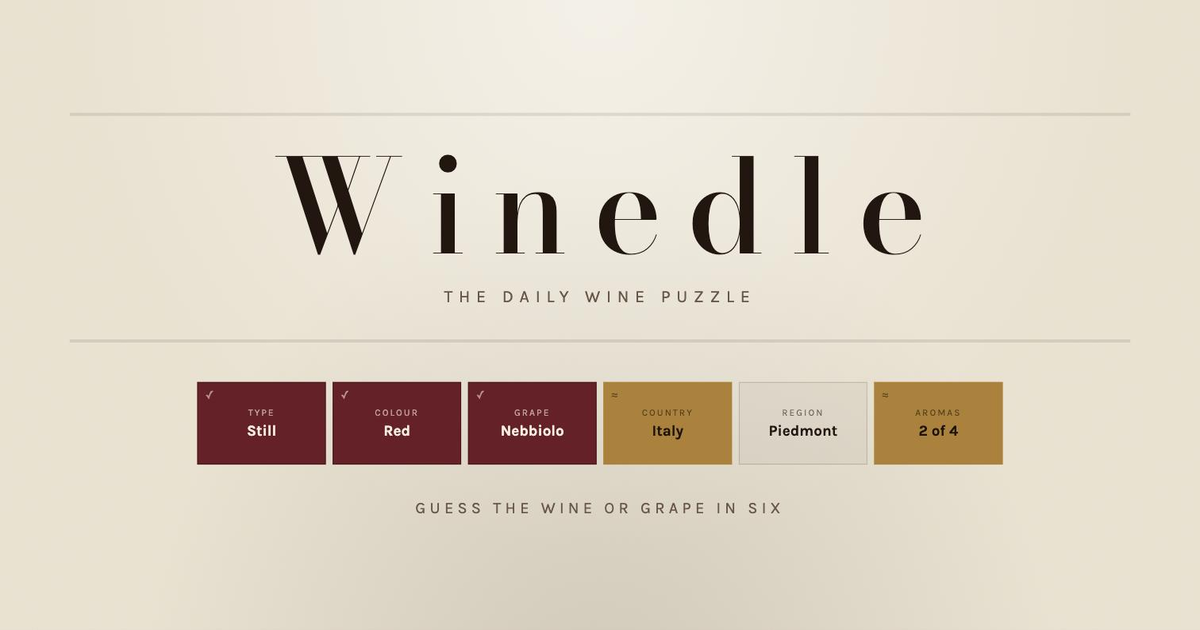
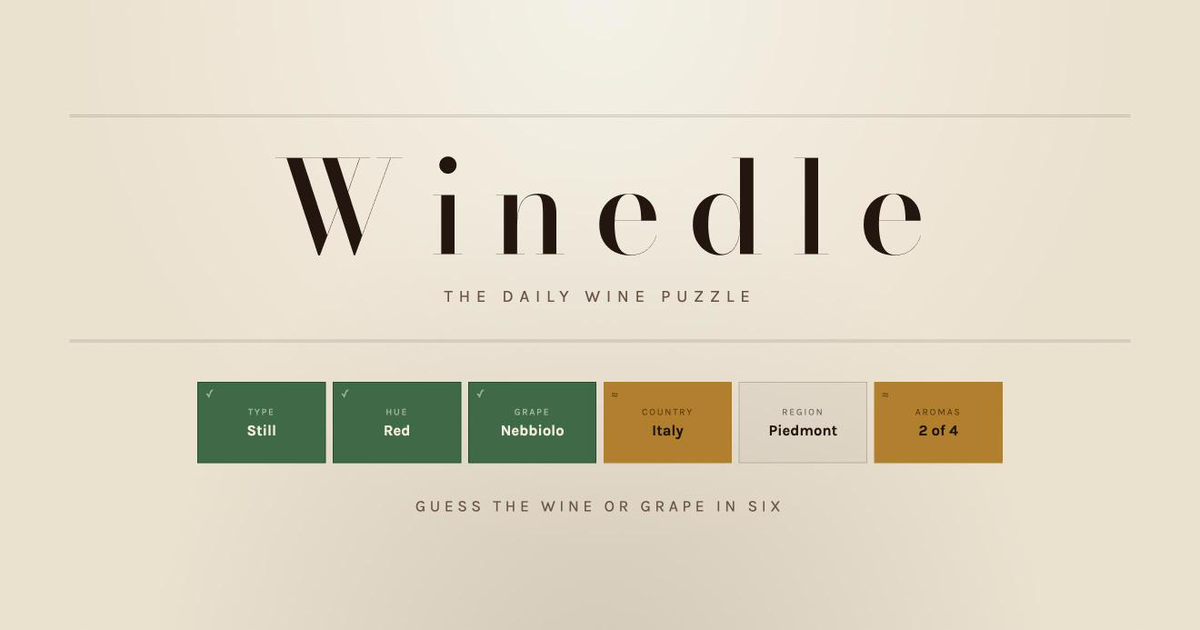
Green for correct instead of oxblood
Bottle green rather than a bright Wordle green, so it sits with the amber and
the parchment instead of shouting over them. Switched everywhere the state is
signalled: tiles, the How to Play key, the guess-distribution bar, the archive
tick, the shared blocks, and the social card.

Oxblood stays as the brand accent on buttons, focus and selection - it is no
longer a scoring signal, which also removes the ambiguity of the same colour
meaning both "correct" and "primary action".

Worth noting: green beside amber is the harder pair for deuteranopes - it is
the classic confusion and worse than the oxblood it replaces. The marks added
earlier are now doing the real work; the colour corroborates.

diff --git a/index.html b/index.html
@@ -33,6 +33,10 @@
   --ink-soft: #6b5544;
   --oxblood: #6d1a26;
   --oxblood-deep: #4a0f1a;
+  /* Correct. Bottle green rather than a bright Wordle green, so it sits with
+     the oxblood and amber instead of shouting over them. */
+  --green: #3d6b47;
+  --green-deep: #294a30;
   --amber: #b1802c;
   --gold: #a68b4c;
   --rule: rgba(36, 22, 15, 0.18);
@@ -48,6 +52,8 @@
     --ink-soft: #a08e78;
     --oxblood: #8c2432;
     --oxblood-deep: #5d1520;
+    --green: #4a7d55;
+    --green-deep: #2f5236;
     --amber: #c2913a;
     --gold: #8a7442;
     --rule: rgba(232, 220, 200, 0.16);
@@ -160,7 +166,7 @@ body {
 .key i {
   width: 14px; height: 14px; display: block; border: 1px solid var(--rule);
 }
-.key .k-hit  { background: var(--oxblood); border-color: var(--oxblood-deep); }
+.key .k-hit  { background: var(--green); border-color: var(--green-deep); }
 .key .k-near { background: var(--amber); border-color: var(--amber); }
 .key .k-miss { background: var(--tile-miss-bg); }
 
@@ -215,9 +221,9 @@ a.linkish { text-decoration: none; }
 .archive-list a:hover { text-decoration: underline; }
 .archive-list a.is-done { color: var(--ink-soft); }
 .archive-list__date { font-size: 0.74rem; opacity: .7; }
-.archive-list__mark { font-size: 0.72rem; color: var(--oxblood); text-align: right; }
+.archive-list__mark { font-size: 0.72rem; color: var(--green); text-align: right; }
 
-@media (prefers-color-scheme: dark) { .archive-list__mark { color: var(--amber); } }
+@media (prefers-color-scheme: dark) { .archive-list__mark { color: var(--green); } }
 
 /* ---------- cellar book ---------- */
 
@@ -275,8 +281,8 @@ a.linkish { text-decoration: none; }
 }
 
 .bar.is-latest .bar__fill {
-  background: var(--oxblood);
-  border-color: var(--oxblood-deep);
+  background: var(--green);
+  border-color: var(--green-deep);
   color: #f6ece0;
 }
 
@@ -464,8 +470,10 @@ a.linkish { text-decoration: none; }
   font-weight: 700;
 }
 
-/* Colour is not the only signal - deuteranopes read oxblood and amber as two
- * similar mid-tones, so each scored state carries a mark as well. */
+/* Colour is not the only signal, and green beside amber is the harder pair for
+ * deuteranopes - it is the classic confusion, worse than the oxblood this
+ * replaced. The mark on each tile is what actually carries the state; the
+ * colour is corroboration. */
 .tile__mark {
   position: absolute;
   left: 5px;
@@ -492,7 +500,7 @@ a.linkish { text-decoration: none; }
   opacity: .8;
 }
 
-.tile--hit  { background: var(--oxblood); border-color: var(--oxblood-deep); color: #f6ece0; }
+.tile--hit  { background: var(--green); border-color: var(--green-deep); color: #f6ece0; }
 .tile--near { background: var(--amber); border-color: var(--amber); color: #1d1206; }
 
 /* letterpress reveal: each tile turns like a card being laid down */
@@ -3341,7 +3349,7 @@ const COLUMNS = [
   { key: 'flavors', label: 'Aromas',  type: 'set'   }
 ];
 
-const EMOJI = { hit: '\u{1F7E5}', near: '\u{1F7E8}', miss: '⬜' };
+const EMOJI = { hit: '\u{1F7E9}', near: '\u{1F7E8}', miss: '\u2B1C' };
 
 /* ---------- comparison engine ---------- */
 

diff --git a/src/style.css b/src/style.css
@@ -7,6 +7,10 @@
   --ink-soft: #6b5544;
   --oxblood: #6d1a26;
   --oxblood-deep: #4a0f1a;
+  /* Correct. Bottle green rather than a bright Wordle green, so it sits with
+     the oxblood and amber instead of shouting over them. */
+  --green: #3d6b47;
+  --green-deep: #294a30;
   --amber: #b1802c;
   --gold: #a68b4c;
   --rule: rgba(36, 22, 15, 0.18);
@@ -22,6 +26,8 @@
     --ink-soft: #a08e78;
     --oxblood: #8c2432;
     --oxblood-deep: #5d1520;
+    --green: #4a7d55;
+    --green-deep: #2f5236;
     --amber: #c2913a;
     --gold: #8a7442;
     --rule: rgba(232, 220, 200, 0.16);
@@ -134,7 +140,7 @@ body {
 .key i {
   width: 14px; height: 14px; display: block; border: 1px solid var(--rule);
 }
-.key .k-hit  { background: var(--oxblood); border-color: var(--oxblood-deep); }
+.key .k-hit  { background: var(--green); border-color: var(--green-deep); }
 .key .k-near { background: var(--amber); border-color: var(--amber); }
 .key .k-miss { background: var(--tile-miss-bg); }
 
@@ -189,9 +195,9 @@ a.linkish { text-decoration: none; }
 .archive-list a:hover { text-decoration: underline; }
 .archive-list a.is-done { color: var(--ink-soft); }
 .archive-list__date { font-size: 0.74rem; opacity: .7; }
-.archive-list__mark { font-size: 0.72rem; color: var(--oxblood); text-align: right; }
+.archive-list__mark { font-size: 0.72rem; color: var(--green); text-align: right; }
 
-@media (prefers-color-scheme: dark) { .archive-list__mark { color: var(--amber); } }
+@media (prefers-color-scheme: dark) { .archive-list__mark { color: var(--green); } }
 
 /* ---------- cellar book ---------- */
 
@@ -249,8 +255,8 @@ a.linkish { text-decoration: none; }
 }
 
 .bar.is-latest .bar__fill {
-  background: var(--oxblood);
-  border-color: var(--oxblood-deep);
+  background: var(--green);
+  border-color: var(--green-deep);
   color: #f6ece0;
 }
 
@@ -438,8 +444,10 @@ a.linkish { text-decoration: none; }
   font-weight: 700;
 }
 
-/* Colour is not the only signal - deuteranopes read oxblood and amber as two
- * similar mid-tones, so each scored state carries a mark as well. */
+/* Colour is not the only signal, and green beside amber is the harder pair for
+ * deuteranopes - it is the classic confusion, worse than the oxblood this
+ * replaced. The mark on each tile is what actually carries the state; the
+ * colour is corroboration. */
 .tile__mark {
   position: absolute;
   left: 5px;
@@ -466,7 +474,7 @@ a.linkish { text-decoration: none; }
   opacity: .8;
 }
 
-.tile--hit  { background: var(--oxblood); border-color: var(--oxblood-deep); color: #f6ece0; }
+.tile--hit  { background: var(--green); border-color: var(--green-deep); color: #f6ece0; }
 .tile--near { background: var(--amber); border-color: var(--amber); color: #1d1206; }
 
 /* letterpress reveal: each tile turns like a card being laid down */

diff --git a/assets/og-card.html b/assets/og-card.html
@@ -42,7 +42,7 @@
   .t b { font-size: 1.25vw; }
   .t i { font-size: 0.79vw; letter-spacing: .17em; text-transform: uppercase; opacity: .62; font-style: normal; }
   .t s { position: absolute; left: 0.6vw; top: 0.4vw; font-size: 0.92vw; opacity: .55; text-decoration: none; }
-  .hit  { background: #6d1a26; border-color: #4a0f1a; color: #f6ece0; }
+  .hit  { background: #3d6b47; border-color: #294a30; color: #f6ece0; }
   .near { background: #b1802c; border-color: #b1802c; color: #1d1206; }
   .foot { font-size: 1.33vw; letter-spacing: .26em; text-transform: uppercase; color: #6b5544; }
 </style>

diff --git a/src/game.js b/src/game.js
@@ -38,7 +38,7 @@ const COLUMNS = [
   { key: 'flavors', label: 'Aromas',  type: 'set'   }
 ];
 
-const EMOJI = { hit: '\u{1F7E5}', near: '\u{1F7E8}', miss: '⬜' };
+const EMOJI = { hit: '\u{1F7E9}', near: '\u{1F7E8}', miss: '\u2B1C' };
 
 /* ---------- comparison engine ---------- */
 

diff --git a/README.md b/README.md
@@ -77,8 +77,12 @@ mapped term must be used. `node test.js` enforces both.
 
 Colour · Country · Region · Depth · Body · Tannin · Acidity · Climate · Aromas
 
-Oxblood = exact. Amber = one step off, same continent, or shared aromas.
+Green = exact. Amber = one step off, same continent, or shared aromas.
 Blank = no match. Arrows on structural tiles point toward the answer.
+
+Green beside amber is the harder pair for deuteranopes — it is the classic
+confusion, and worse than the oxblood it replaced. The ✓ and ≈ marks on each
+tile are what actually carry the state; the colour corroborates.
 
 ## Modes
 
